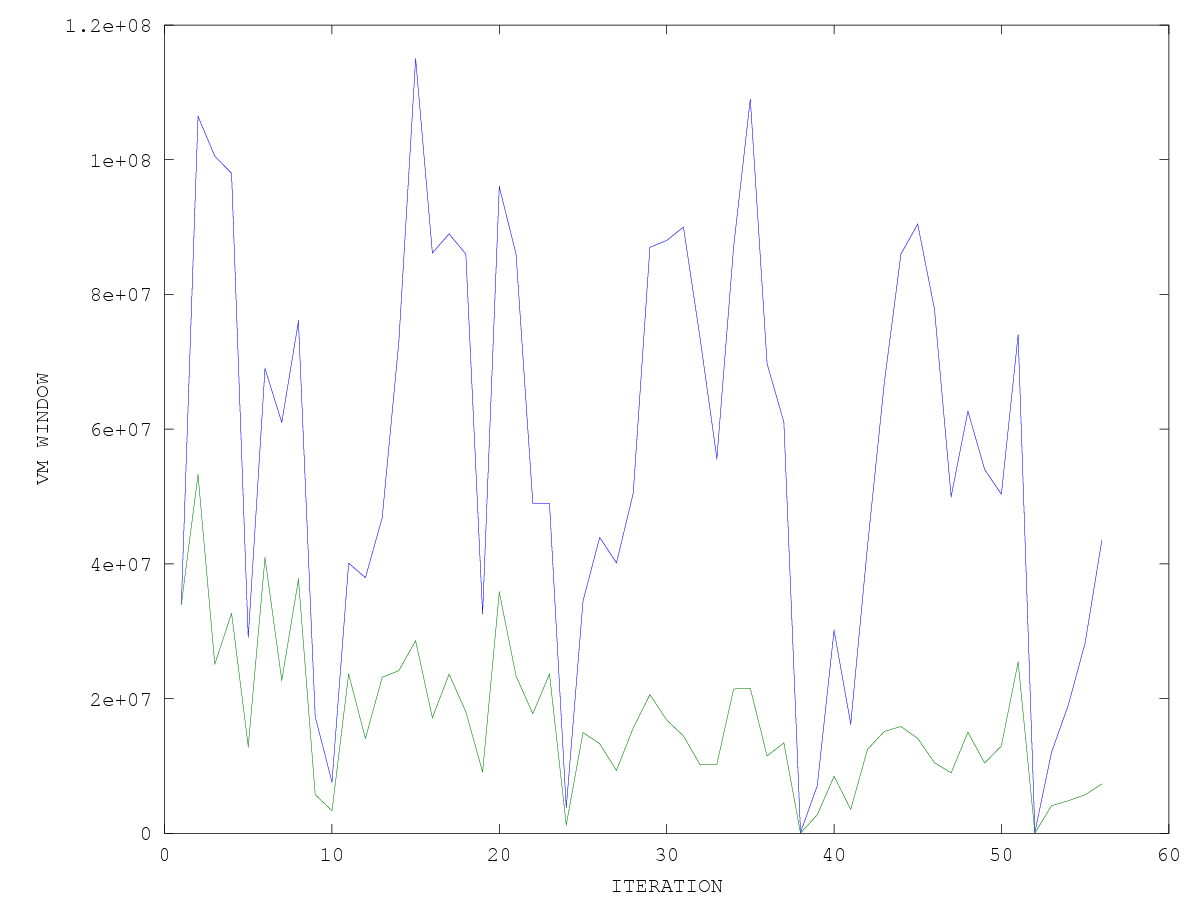
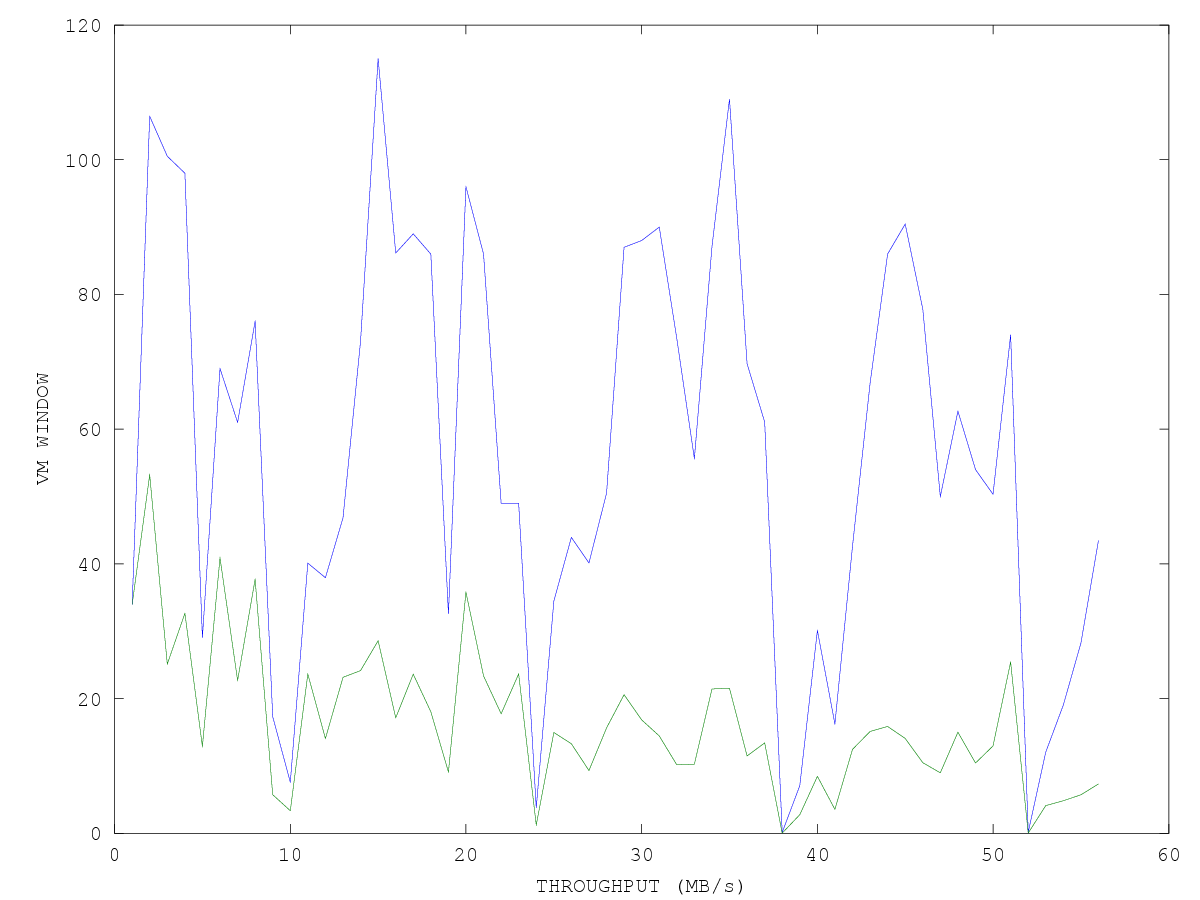
genplot

diff --git a/log/old/aggregate/20-80-180/genplot.m b/log/old/aggregate/20-80-180/genplot.m
@@ -31,7 +31,7 @@ saveas (1, strcat(output, ".png"));
 
 figure;
 output = strcat(prefix, ".bw");
-plot(A(:,2:3));
-xlabel('ITERATION');
+plot(A(:,2:3)/1000000);
+xlabel('THROUGHPUT (MB/s)');
 ylabel('VM WINDOW');
 saveas (1, strcat(output, ".png"));
